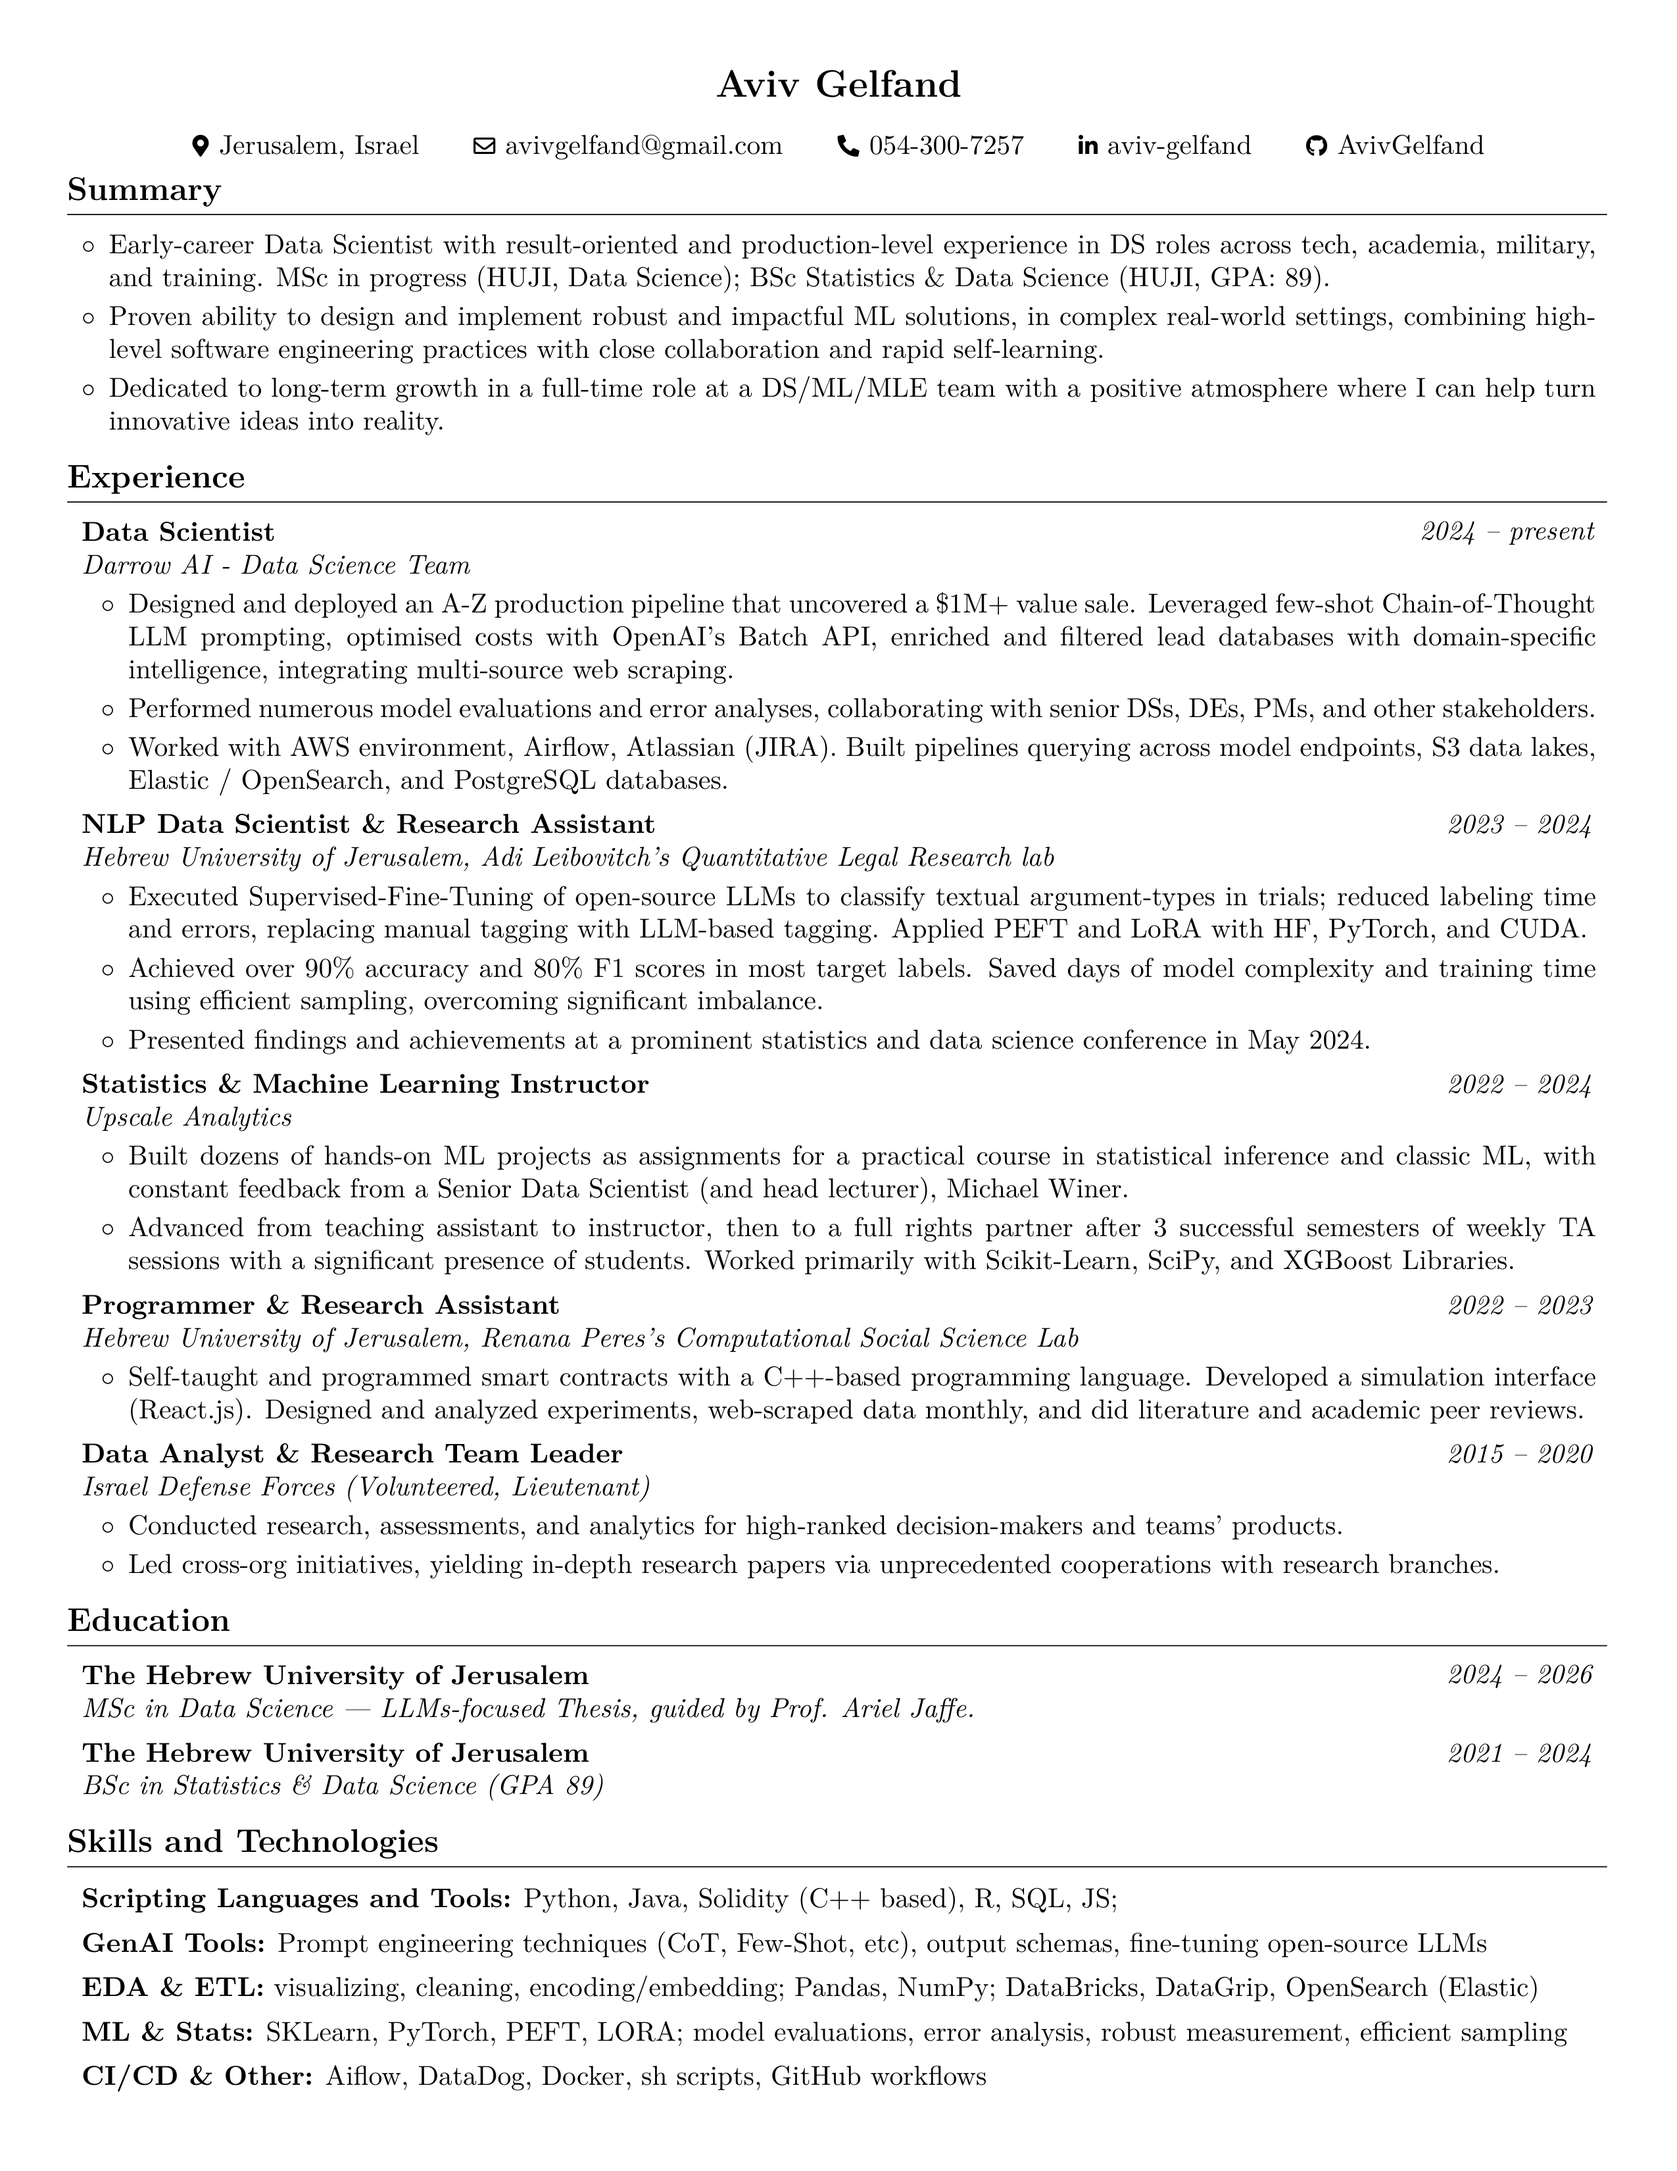
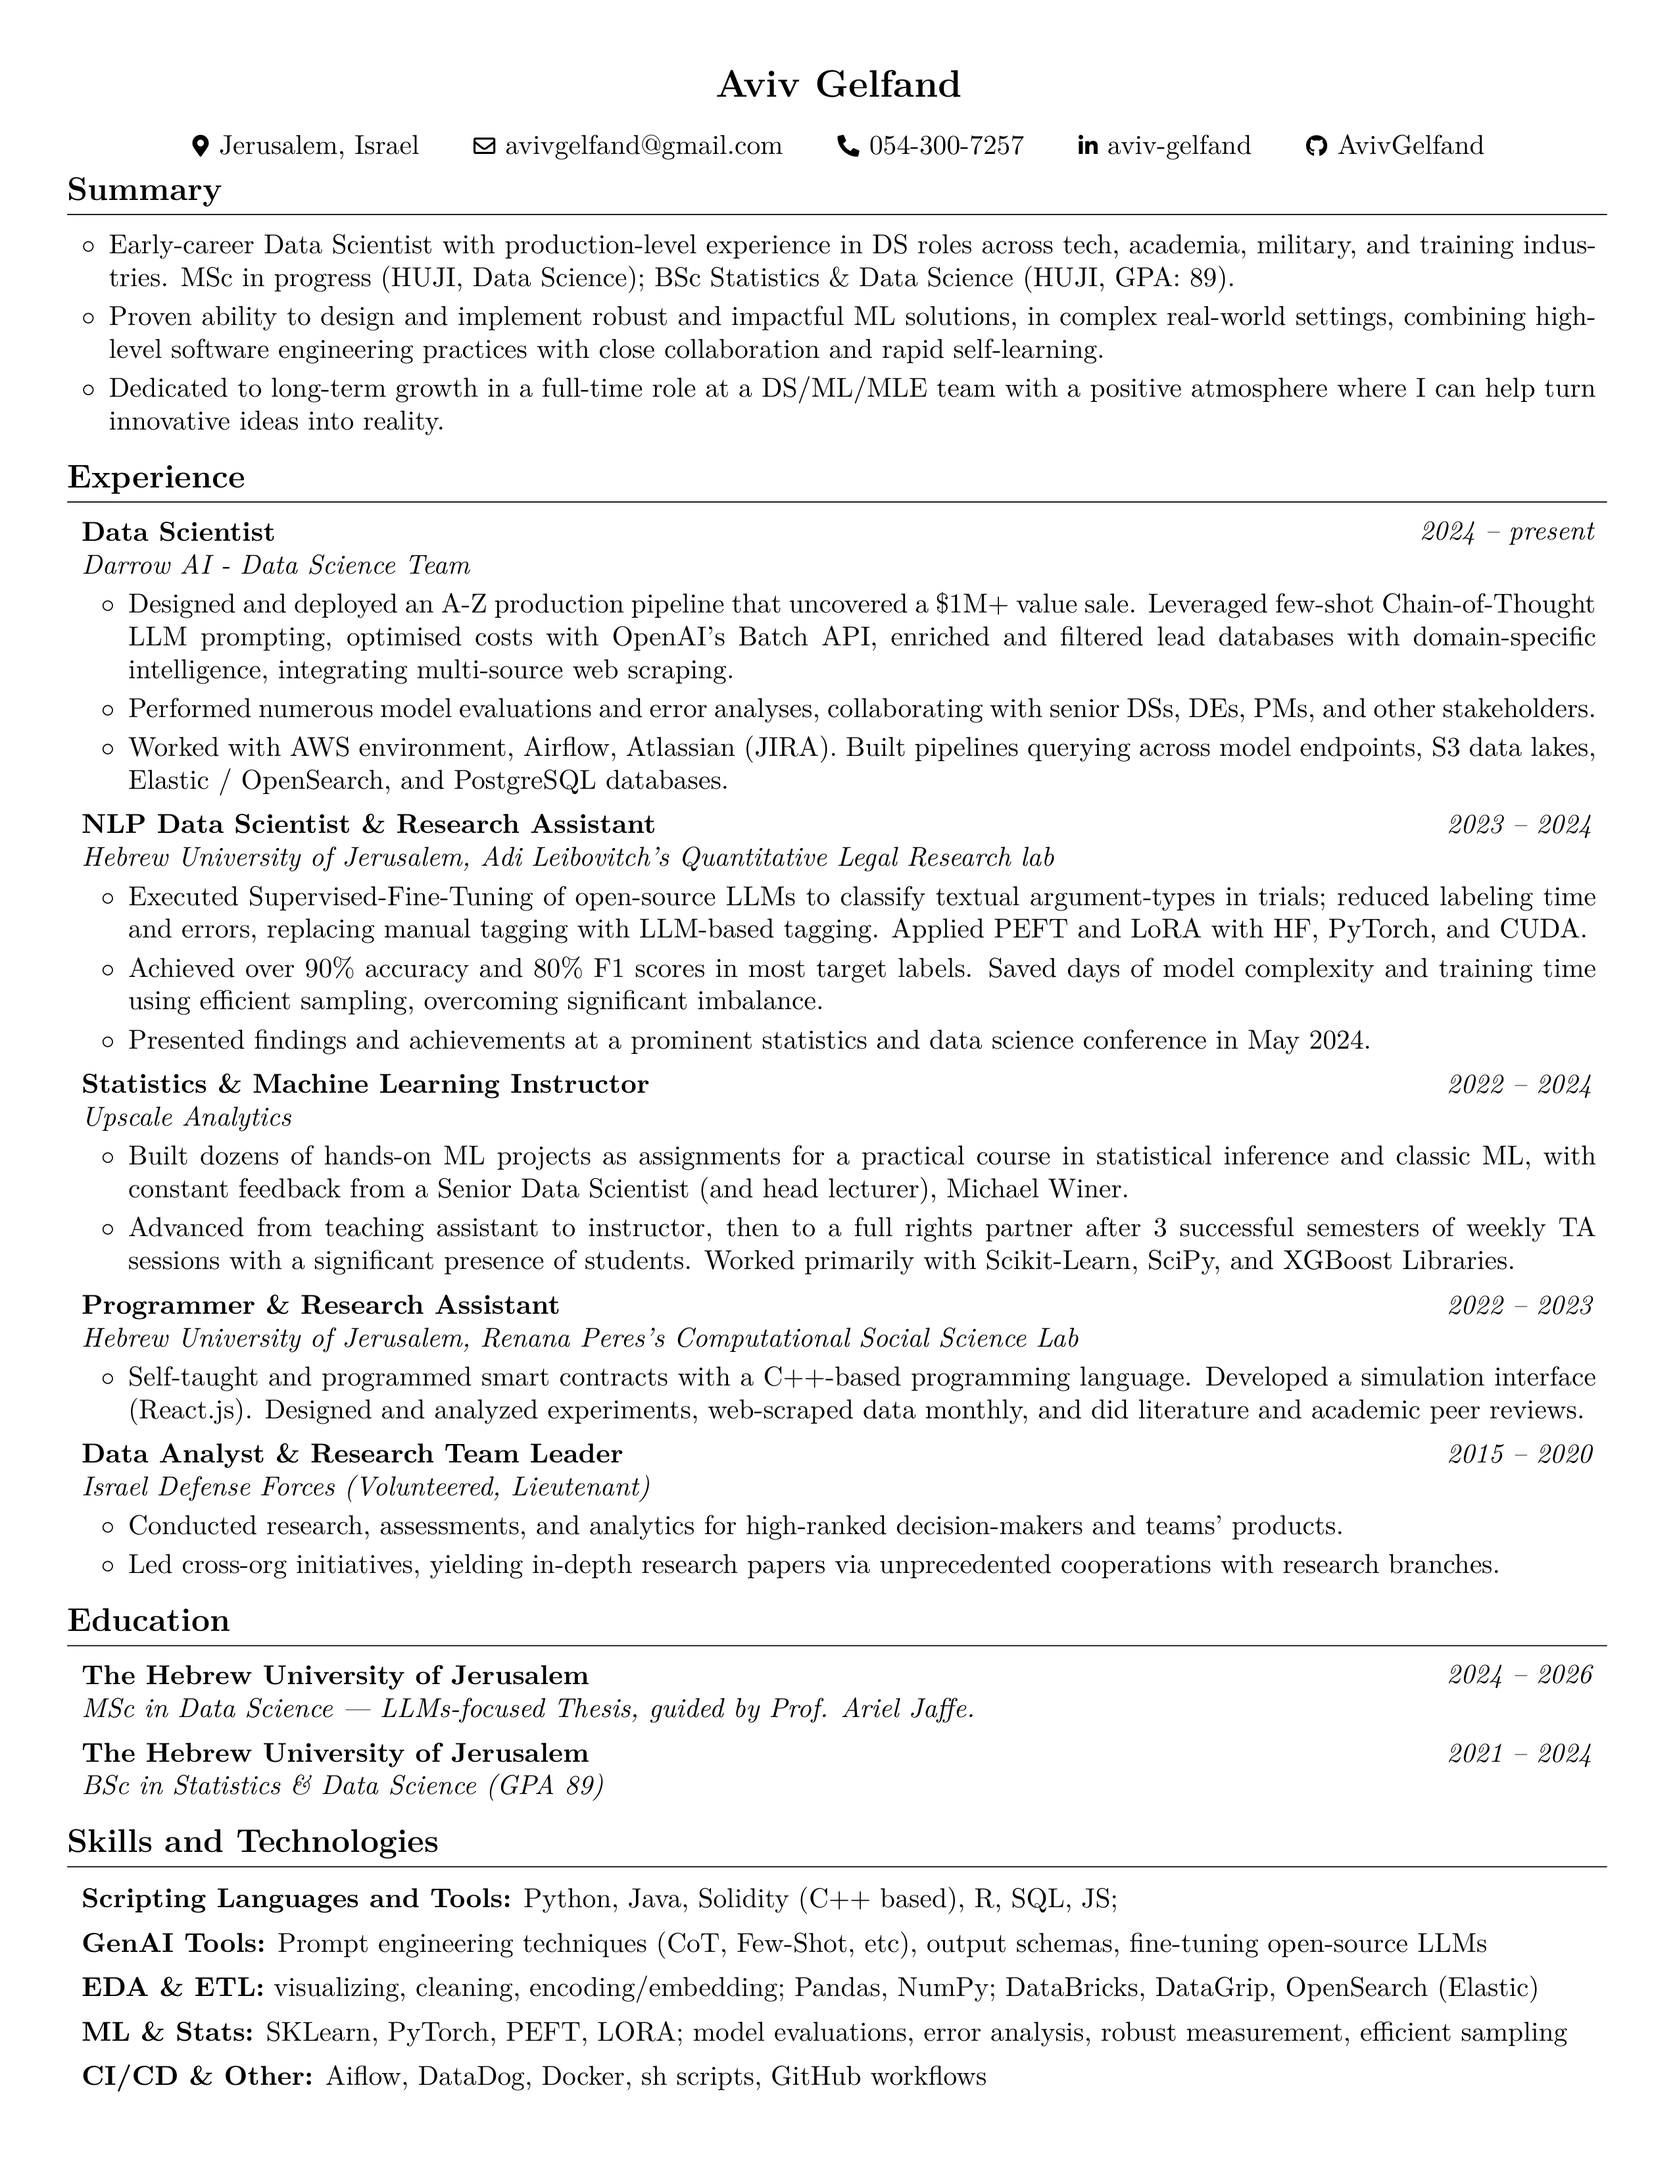
Render the latest CV

Changed region(s): [[0.2788, 0.0936, 0.8055, 0.1561], [0.8365, 0.0936, 0.9294, 0.1248], [0.1859, 0.1248, 0.2788, 0.1561]]

diff --git a/Aviv_Gelfand_CV.html b/Aviv_Gelfand_CV.html
@@ -42,7 +42,7 @@
         </ul>
         <h1>Summary</h1>
         <ul>
-        <li>Early-career Data Scientist with result-oriented and production-level experience in DS roles across tech, academia, military, and training. MSc in progress (HUJI, Data Science); BSc Statistics &amp; Data Science (HUJI, GPA: 89).</li>
+        <li>Early-career Data Scientist with production-level experience in DS roles across tech, academia, military, and training industries. MSc in progress (HUJI, Data Science); BSc Statistics &amp; Data Science (HUJI, GPA: 89).</li>
         <li>Proven ability to design and implement robust and impactful ML solutions, in complex real-world settings, combining high-level software engineering practices with close collaboration and rapid self-learning.</li>
         <li>Dedicated to long-term growth in a full-time role at a DS/ML/MLE team with a positive atmosphere where I can help turn innovative ideas into reality.</li>
         </ul>

diff --git a/Aviv_Gelfand_CV.tex b/Aviv_Gelfand_CV.tex
@@ -181,7 +181,7 @@
         \begin{highlightsforbulletentries}
 
 
-        \item Early-career Data Scientist with result-oriented and production-level experience in DS roles across tech, academia, military, and training. MSc in progress (HUJI, Data Science); BSc Statistics \& Data Science (HUJI, GPA: 89).
+        \item Early-career Data Scientist with production-level experience in DS roles across tech, academia, military, and training industries. MSc in progress (HUJI, Data Science); BSc Statistics \& Data Science (HUJI, GPA: 89).
 
         \item Proven ability to design and implement robust and impactful ML solutions, in complex real-world settings, combining high-level software engineering practices with close collaboration and rapid self-learning.
 

diff --git a/README.md b/README.md
@@ -11,7 +11,7 @@
 
 # Summary
 
-- Early-career Data Scientist with result-oriented and production-level experience in DS roles across tech, academia, military, and training. MSc in progress (HUJI, Data Science); BSc Statistics & Data Science (HUJI, GPA: 89).
+- Early-career Data Scientist with production-level experience in DS roles across tech, academia, military, and training industries. MSc in progress (HUJI, Data Science); BSc Statistics & Data Science (HUJI, GPA: 89).
 - Proven ability to design and implement robust and impactful ML solutions, in complex real-world settings, combining high-level software engineering practices with close collaboration and rapid self-learning.
 - Dedicated to long-term growth in a full-time role at a DS/ML/MLE team with a positive atmosphere where I can help turn innovative ideas into reality.
 # Experience
